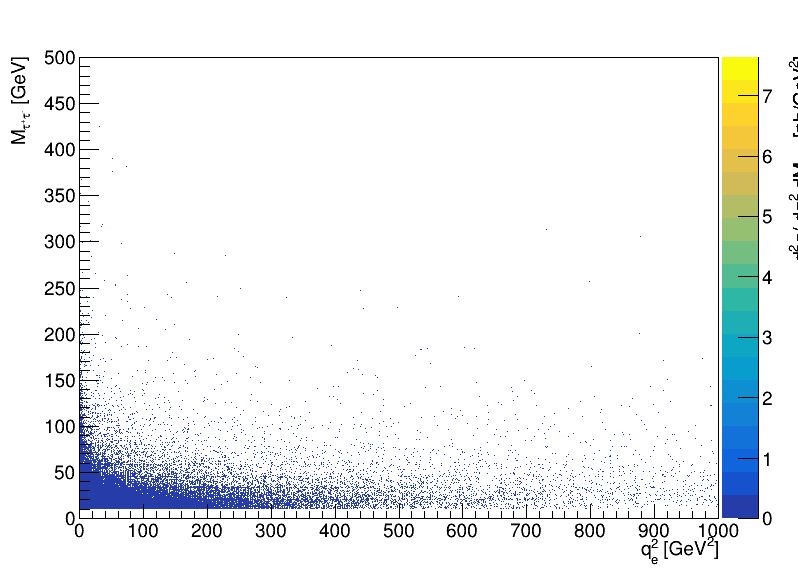
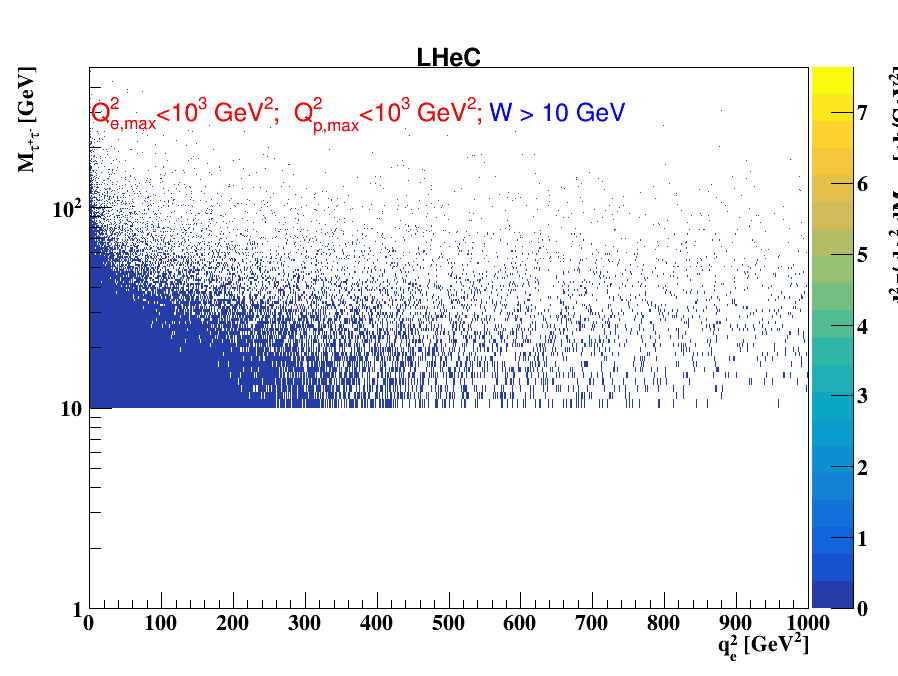
lpair_tau_tau_E_Different_dSigma_dq2e_dM
lpair_tau_tau_E_Different_dSigma_dq2e_dM

diff --git a/cepgen-lpair_elastic_inelastic/lpair_tau_tau_E_Different_dSigma_dq2e_dM/CalculateAndPlot.C b/cepgen-lpair_elastic_inelastic/lpair_tau_tau_E_Different_dSigma_dq2e_dM/CalculateAndPlot.C
@@ -5,6 +5,8 @@
 #include <TH2.h>
 #include <TCanvas.h>
 #include <TStyle.h>
+#include <TLegend.h>
+#include <TLatex.h>
 
 void CalculateAndPlot() {
     gStyle->SetOptStat(0);
@@ -88,11 +90,43 @@ void CalculateAndPlot() {
     histSingleq2->Write();
     outputFile->Close();
 
+    // Define legend and text
+    TLegend *leg = new TLegend(0.70, 0.70, 0.90, 0.85);
+    leg->SetBorderSize(0);
+    leg->SetTextSize(0.04);
+    leg->SetTextFont(12);
+    leg->SetFillStyle(0);
+
+    TLatex *t2a = new TLatex(0.5, 0.9, "#bf{LHeC}");
+    t2a->SetNDC();
+    t2a->SetTextFont(42);
+    t2a->SetTextSize(0.04);
+    t2a->SetTextAlign(20);
+
+    TLatex *t3a = new TLatex(0.40, 0.80, "Q^{2}_{e,max}<10^{3} GeV^{2};  Q^{2}_{p,max}<10^{3} GeV^{2}; #color[4]{W > 10 GeV}");
+    t3a->SetNDC();
+    t3a->SetTextFont(42);
+    t3a->SetTextSize(0.04);
+    t3a->SetTextAlign(20);
+    t3a->SetTextColor(2);
+
     // Plot the double differential cross-section vs. Mll
-    TCanvas *canvasMll = new TCanvas("canvasMll", "Double Differential Cross-Section vs M_{#tau^{+}#tau^{-}}", 800, 600);
+    TCanvas *canvasMll = new TCanvas("canvasMll", "Double Differential Cross-Section vs M_{#tau^{+}#tau^{-}}", 900, 700);
     histMll->GetXaxis()->SetTitle("M_{#tau^{+}#tau^{-}} [GeV]");
+    histMll->GetXaxis()->SetLabelFont(22);
+    histMll->GetXaxis()->SetTitleFont(22);
     histMll->GetYaxis()->SetTitle("d^{2}#sigma/ dq^{2}_{e} dM_{#tau^{+}#tau^{-}} [pb/GeV]");
-    histMll->Draw("hist");
+    histMll->GetYaxis()->SetLabelFont(22);
+    histMll->GetYaxis()->SetTitleFont(22);
+    histMll->SetLineWidth(3.0);
+    histMll->SetLineColor(kBlue + 1);
+    histMll->Draw("HIST E");
+    canvasMll->SetLogy(1);
+    canvasMll->SetLogx(0);
+    leg->AddEntry(histMll, "Elastic (#tau^{+}#tau^{-}) cepgen", "L")->SetTextColor(kBlue + 1);
+    leg->Draw("same");
+    t2a->Draw("same");
+    t3a->Draw("same");
     canvasMll->SaveAs("double_differential_cross_section_vs_Mll.png");
 
     // Calculate area under the Mll histogram
@@ -100,11 +134,21 @@ void CalculateAndPlot() {
     std::cout << "areaMll = " << areaMll << " pb" << std::endl;
 
     // Plot the double differential cross-section vs. q2
-    TCanvas *canvasq2 = new TCanvas("canvasq2", "Double Differential Cross-Section vs q^{2}_{e}", 800, 600);
+    TCanvas *canvasq2 = new TCanvas("canvasq2", "Double Differential Cross-Section vs q^{2}_{e}", 900, 700);
     histq2->GetXaxis()->SetTitle("q^{2}_{e} [GeV^{2}]");
+    histq2->GetXaxis()->SetLabelFont(22);
+    histq2->GetXaxis()->SetTitleFont(22);
     histq2->GetYaxis()->SetTitle("d^{2}#sigma/ dq^{2}_{e} dM_{#tau^{+}#tau^{-}} [pb/GeV^{2}]");
-    histq2->GetXaxis()->SetRangeUser(0, 1000); // Explicitly set the range
-    histq2->Draw("hist");
+    histq2->GetYaxis()->SetLabelFont(22);
+    histq2->GetYaxis()->SetTitleFont(22);
+    histq2->SetLineWidth(3.0);
+    histq2->SetLineColor(kBlue + 1);
+    histq2->Draw("HIST E");
+    canvasq2->SetLogy(1);
+    canvasq2->SetLogx(0);
+    leg->Draw("same");
+    t2a->Draw("same");
+    t3a->Draw("same");
     canvasq2->SaveAs("double_differential_cross_section_vs_q2.png");
 
     // Calculate area under the q2 histogram
@@ -112,63 +156,39 @@ void CalculateAndPlot() {
     std::cout << "areaq2 = " << areaq2 << " pb" << std::endl;
 
     // Plot the 2D histogram
-    TCanvas *canvas2D = new TCanvas("canvas2D", "Double Differential Cross-Section 2D", 800, 600);
+    TCanvas *canvas2D = new TCanvas("canvas2D", "Double Differential Cross-Section vs q^{2}_{e} and M_{#tau^{+}#tau^{-}}", 900, 700);
     hist2D->GetXaxis()->SetTitle("q^{2}_{e} [GeV^{2}]");
+    hist2D->GetXaxis()->SetLabelFont(22);
+    hist2D->GetXaxis()->SetTitleFont(22);
     hist2D->GetYaxis()->SetTitle("M_{#tau^{+}#tau^{-}} [GeV]");
+    hist2D->GetYaxis()->SetLabelFont(22);
+    hist2D->GetYaxis()->SetTitleFont(22);
     hist2D->GetZaxis()->SetTitle("d^{2}#sigma/ dq^{2}_{e} dM_{#tau^{+}#tau^{-}} [pb/GeV^{2}]");
-    hist2D->Draw("colz");
+    hist2D->GetZaxis()->SetLabelFont(22);
+    hist2D->GetZaxis()->SetTitleFont(22);
+    hist2D->Draw("COLZ");
+    canvas2D->SetLogy(1);
+    canvas2D->SetLogx(0);
+    t2a->Draw("same");
+    t3a->Draw("same");
     canvas2D->SaveAs("double_differential_cross_section_2D.png");
 
     // Calculate area under the 2D histogram
     double area2D = hist2D->Integral();
     std::cout << "area2D = " << area2D << " pb" << std::endl;
 
-
-    // Plot the single differential cross-section vs. Mll
-    TCanvas *canvasSingleMll = new TCanvas("canvasSingleMll", "Single Differential Cross-Section vs M_{#tau^{+}#tau^{-}}", 800, 600);
-    histSingleMll->GetXaxis()->SetTitle("M_{#tau^{+}#tau^{-}} [GeV]");
-    histSingleMll->GetYaxis()->SetTitle("d#sigma/ dM_{#tau^{+}#tau^{-}} [pb/GeV]");
-    histSingleMll->Draw("hist");
-    canvasSingleMll->SaveAs("single_differential_cross_section_vs_Mll.png");
-
-    // Calculate area under the single differential Mll histogram
-    double areaSingleMll = histSingleMll->Integral();
-    std::cout << "areaSingleMll = " << areaSingleMll << " pb" << std::endl;
-
-
-    // Plot the single differential cross-section vs. q2
-    TCanvas *canvasSingleq2 = new TCanvas("canvasSingleq2", "Single Differential Cross-Section vs q^{2}_{e}", 800, 600);
-    histSingleq2->GetXaxis()->SetTitle("q^{2}_{e} [GeV^{2}]");
-    histSingleq2->GetYaxis()->SetTitle("d#sigma/ dq^{2}_{e} [pb/GeV^{2}]");
-    histSingleq2->GetXaxis()->SetRangeUser(0, 1000); // Explicitly set the range
-    histSingleq2->Draw("hist");
-    canvasSingleq2->SaveAs("single_differential_cross_section_vs_q2.png");
-
-    // Calculate area under the single differential q2 histogram
-    double areaSingleq2 = histSingleq2->Integral();
-    std::cout << "areaSingleq2 = " << areaSingleq2 << " pb" << std::endl;
-
-    // Clean up
+    // Cleanup
+    delete leg;
+    delete t2a;
+    delete t3a;
+    delete canvasMll;
+    delete canvasq2;
+    delete canvas2D;
     delete histMll;
     delete histq2;
     delete hist2D;
     delete histSingleMll;
     delete histSingleq2;
+    inputFile->Close();
     delete inputFile;
-    delete outputFile;
-    delete canvasMll;
-    delete canvasq2;
-    delete canvas2D;
-    delete canvasSingleMll;
-    delete canvasSingleq2;
-}
-
-int main() {
-    // Set the global style
-    gStyle->SetOptStat(1);
-
-    // Calculate and plot the double differential cross-section
-    CalculateAndPlot();
-
-    return 0;
 }
